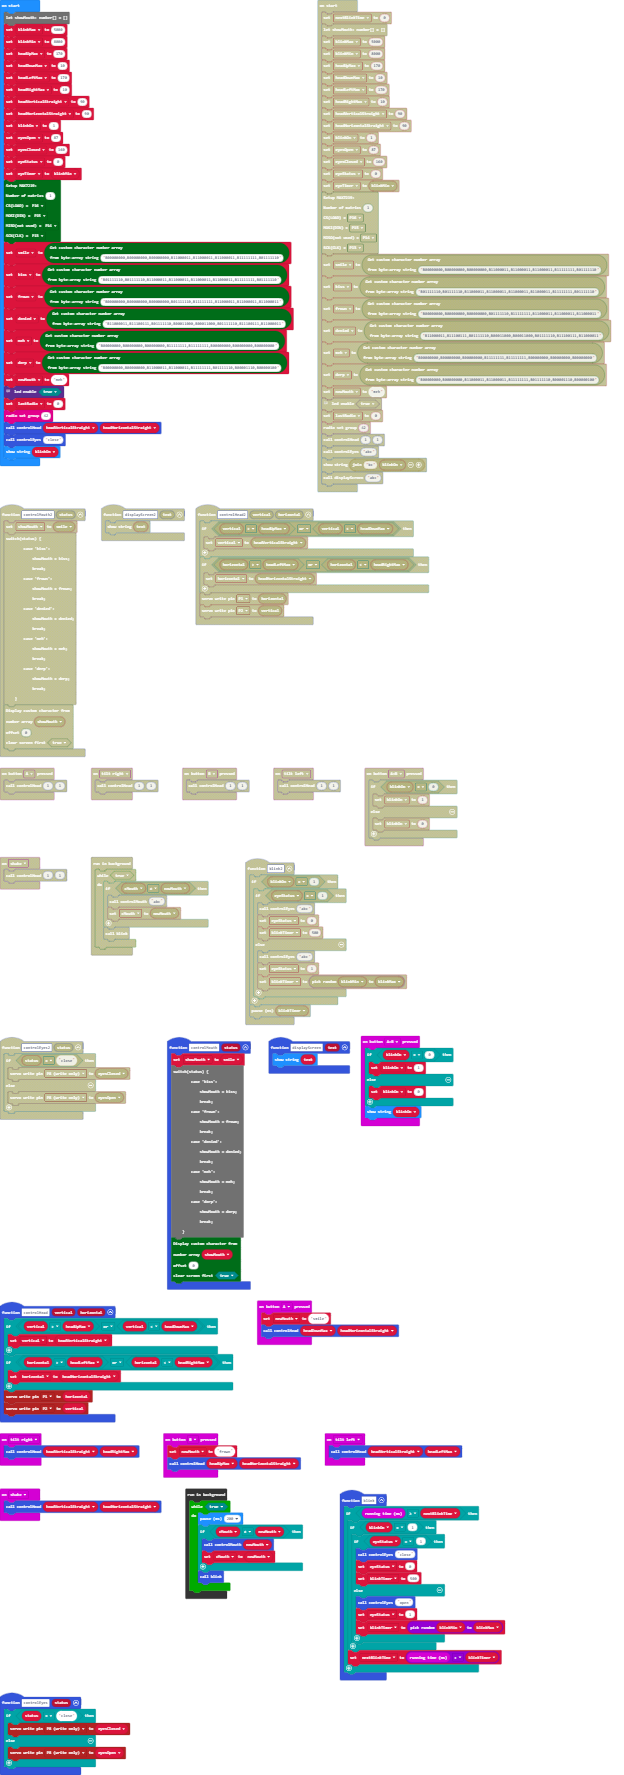
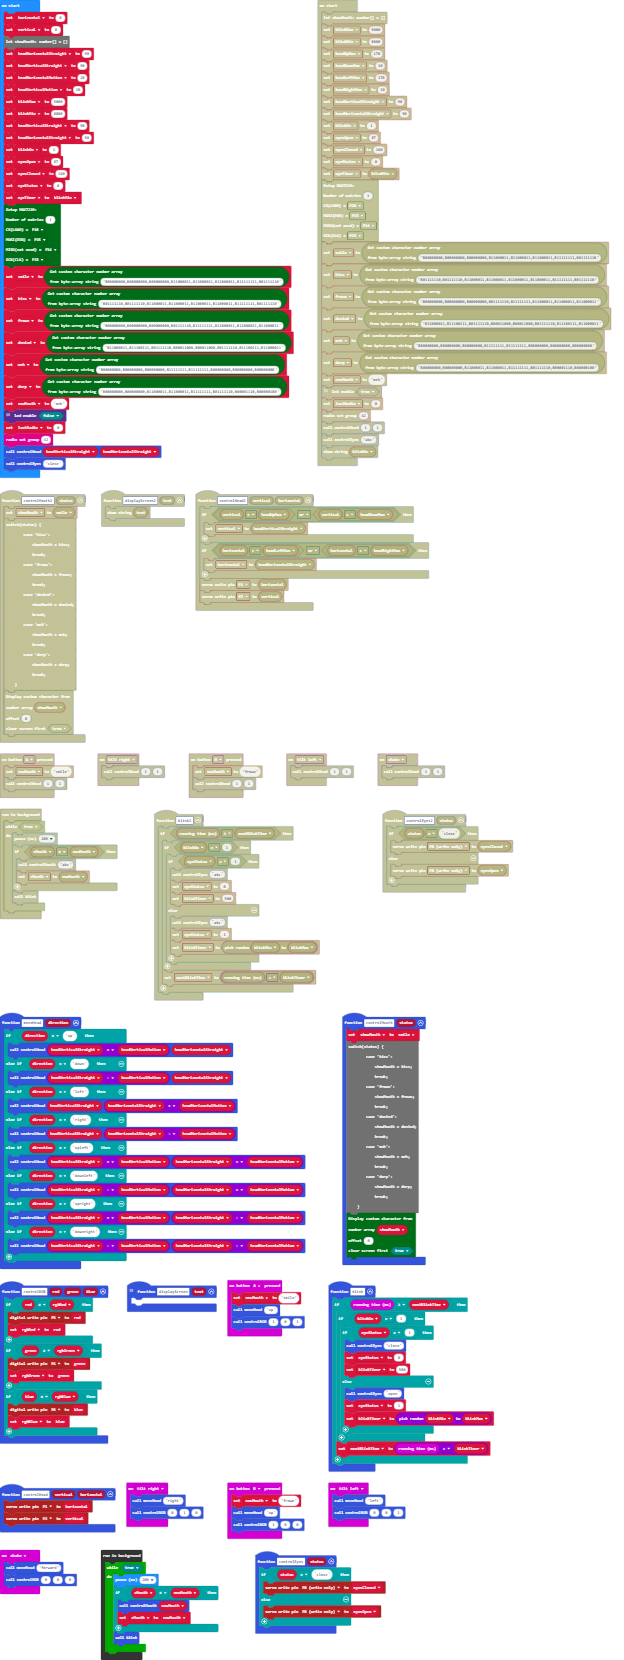
Adds RGB LED and adjusts values

diff --git a/main.ts b/main.ts
@@ -23,12 +23,49 @@ max7219_matrix.displayCustomCharacter(
     true
     )
 }
+function controlRGB (red: number, green: number, blue: number) {
+    if (red != rgbRed) {
+        pins.digitalWritePin(DigitalPin.P3, red)
+        rgbRed = red
+    }
+    if (green != rgbGreen) {
+        pins.digitalWritePin(DigitalPin.P4, green)
+        rgbGreen = green
+    }
+    if (blue != rgbBlue) {
+        pins.digitalWritePin(DigitalPin.P6, blue)
+        rgbBlue = blue
+    }
+}
+// basic.showString(text)
 function displayScreen (text: string) {
-    basic.showString(text)
+	
+}
+function moveHead (direction: string) {
+    if (direction == "up") {
+        controlHead(headVerticalStraight + headVerticalMotion, headHorizontalStraight)
+    } else if (direction == "down") {
+        controlHead(headVerticalStraight - headVerticalMotion, headHorizontalStraight)
+    } else if (direction == "left") {
+        controlHead(headVerticalStraight, headHorizontalStraight + headHorizontalMotion)
+    } else if (direction == "right") {
+        controlHead(headVerticalStraight, headHorizontalStraight - headHorizontalMotion)
+    } else if (direction == "upleft") {
+        controlHead(headVerticalStraight + headVerticalMotion, headHorizontalStraight + headHorizontalMotion)
+    } else if (direction == "downleft") {
+        controlHead(headVerticalStraight - headVerticalMotion, headHorizontalStraight + headHorizontalMotion)
+    } else if (direction == "upright") {
+        controlHead(headVerticalStraight + headVerticalMotion, headHorizontalStraight - headHorizontalMotion)
+    } else if (direction == "downright") {
+        controlHead(headVerticalStraight - headVerticalMotion, headHorizontalStraight - headHorizontalMotion)
+    } else if (direction == "forward") {
+        controlHead(headVerticalStraight, headHorizontalStraight)
+    }
 }
 input.onButtonPressed(Button.A, function () {
     newMouth = "smile"
-    controlHead(headDownMax, headHorizontalStraight)
+    moveHead("up")
+    controlRGB(1, 0, 1)
 })
 function blink () {
     if (input.runningTime() >= nextBlinkTime) {
@@ -47,7 +84,8 @@ function blink () {
     }
 }
 input.onGesture(Gesture.TiltLeft, function () {
-    controlHead(headVerticalStraight, headLeftMax)
+    moveHead("left")
+    controlRGB(0, 0, 1)
 })
 function controlEyes (status: string) {
     if (status == "close") {
@@ -76,29 +114,27 @@ radio.onReceivedString(function (receivedString) {
 })
 input.onButtonPressed(Button.B, function () {
     newMouth = "frown"
-    controlHead(headUpMax, headHorizontalStraight)
+    moveHead("down")
+    controlRGB(1, 0, 0)
 })
 input.onGesture(Gesture.Shake, function () {
-    controlHead(headVerticalStraight, headHorizontalStraight)
+    moveHead("forward")
+    controlRGB(0, 0, 0)
 })
 input.onGesture(Gesture.TiltRight, function () {
-    controlHead(headVerticalStraight, headRightMax)
+    moveHead("right")
+    controlRGB(0, 1, 0)
 })
 function controlHead (vertical: number, horizontal: number) {
-    if (vertical > headUpMax || vertical < headDownMax) {
-        vertical = headVerticalStraight
-    }
-    if (horizontal > headLeftMax || horizontal < headRightMax) {
-        horizontal = headHorizontalStraight
-    }
     pins.servoWritePin(AnalogPin.P1, horizontal)
     pins.servoWritePin(AnalogPin.P2, vertical)
 }
 let cMouth = ""
-let horizontal = 0
-let vertical = 0
 let blinkTimer = 0
 let nextBlinkTime = 0
+let rgbBlue = 0
+let rgbGreen = 0
+let rgbRed = 0
 let lastRadio = 0
 let newMouth = ""
 let smile: number[] = []
@@ -106,23 +142,21 @@ let eyeStatus = 0
 let eyesClosed = 0
 let eyesOpen = 0
 let blinkOn = 0
-let headHorizontalStraight = 0
-let headVerticalStraight = 0
-let headRightMax = 0
-let headLeftMax = 0
-let headDownMax = 0
-let headUpMax = 0
 let blinkMin = 0
 let blinkMax = 0
+let headVerticalMotion = 0
+let headHorizontalMotion = 0
+let headVerticalStraight = 0
+let headHorizontalStraight = 0
+let horizontal = 0
+let vertical = 0
 let showMouth: number[] = []
+headHorizontalStraight = 80
+headVerticalStraight = 70
+headHorizontalMotion = 30
+headVerticalMotion = 12
 blinkMax = 5000
 blinkMin = 8000
-headUpMax = 170
-headDownMax = 10
-headLeftMax = 170
-headRightMax = 10
-headVerticalStraight = 90
-headHorizontalStraight = 90
 blinkOn = 1
 eyesOpen = 87
 eyesClosed = 160
@@ -174,12 +208,11 @@ newMouth = "meh"
 // "B00000000,B00000000,B11000011,B11000011,B11111111,B01111110,B00001110,B00000100"
 // )
 // }
-led.enable(true)
+led.enable(false)
 lastRadio = 0
 radio.setGroup(42)
 controlHead(headVerticalStraight, headHorizontalStraight)
 controlEyes("close")
-basic.showString("" + (blinkOn))
 control.inBackground(function () {
     while (true) {
         basic.pause(200)
